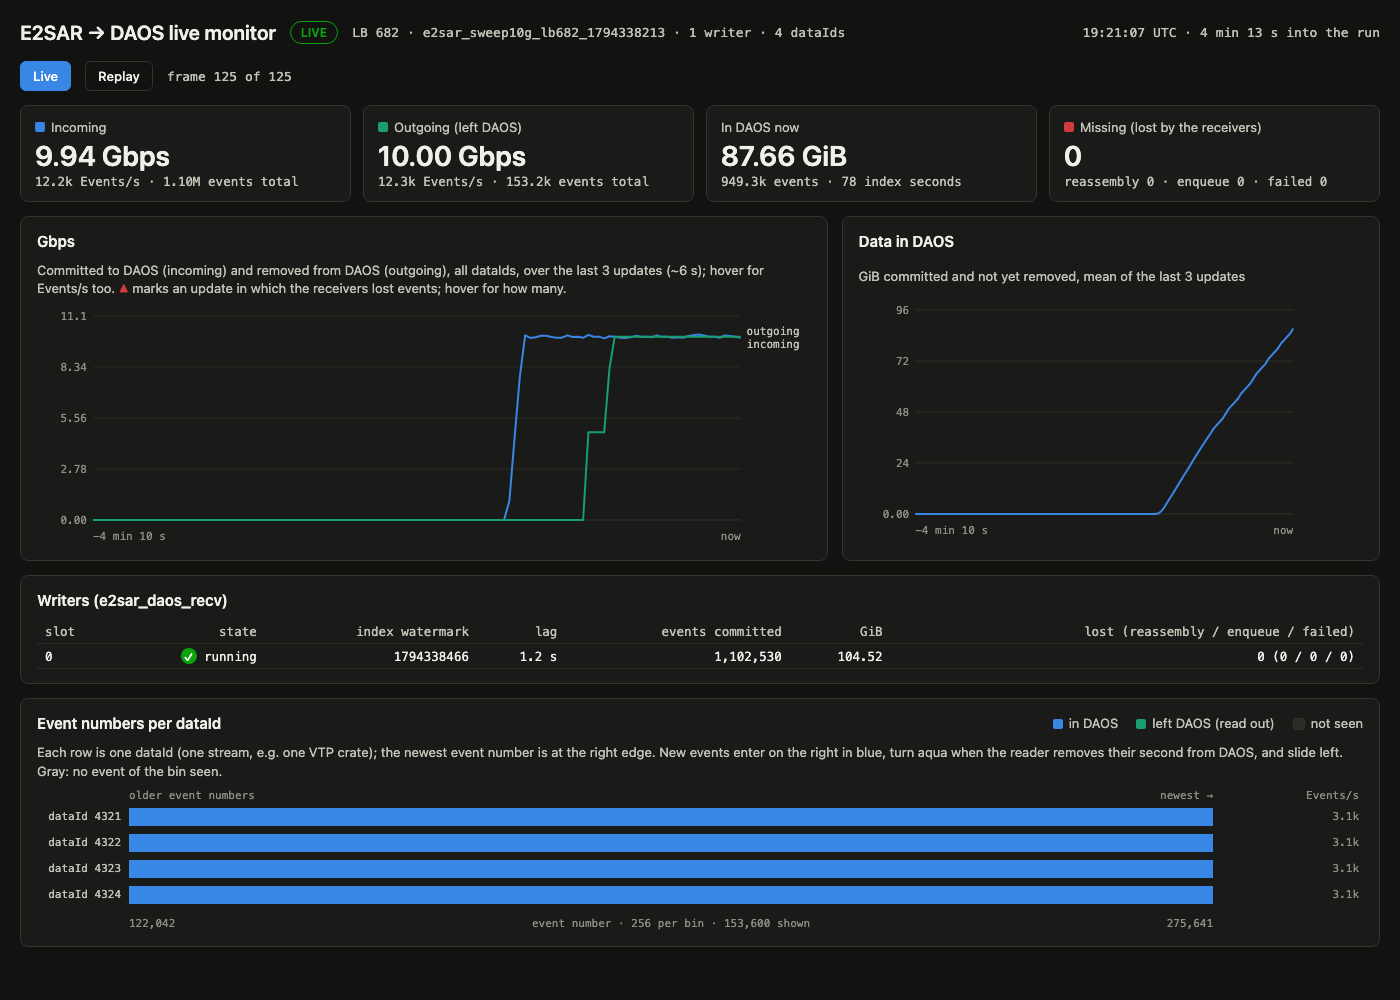
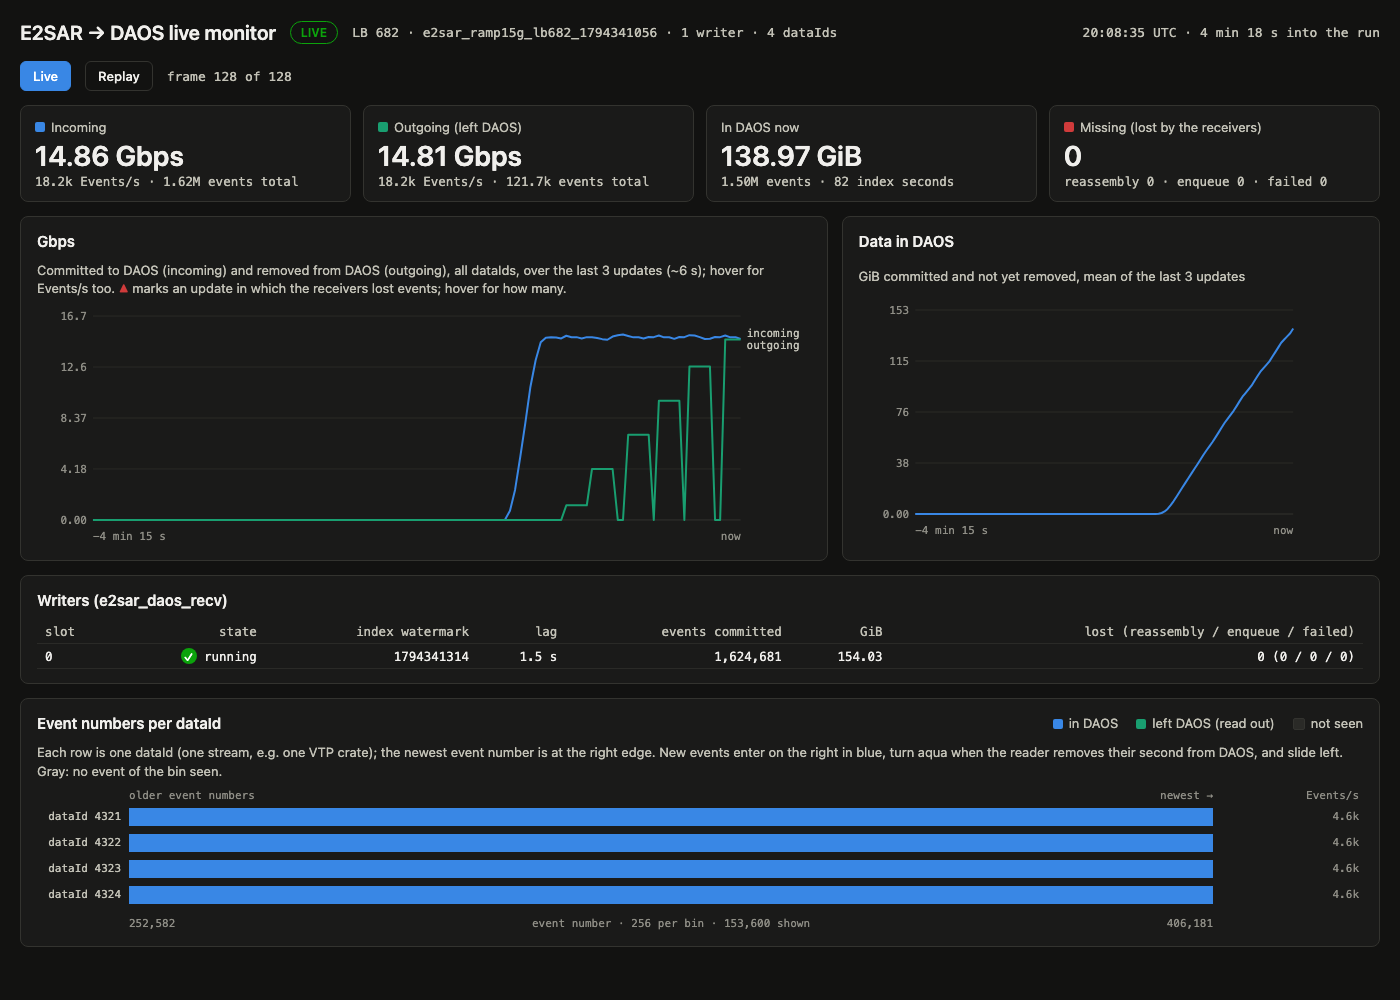
docs: DAOS monitor screenshot from the 15 Gbps ramp run (lossless)

diff --git a/docs/concepts/streaming-workflow.md b/docs/concepts/streaming-workflow.md
@@ -58,7 +58,7 @@ Two independent tools show a run live, each in a web page. Neither writes to DAO
 | Load on the run | One read of each 32-byte index entry, one `seconds` listing per 2 s (estimated, not yet measured on DAOS) | None on DAOS. Reads at most the sample (default 32 MiB) of each bundle from the page cache |
 | Load on the page | ~4 KB per update; the page draws one canvas and three small charts | The browser decodes the sample: ~4,300 frames of 18 crates per 32 MiB, under 1 s |
 
-![The DAOS monitor on 2026-11-10: frames_thread0_file0020.evio sent through LB 682 at 10 Gbps (250 frames, ~100 KB, per event; 4 streams), the fastest lossless rate of a 20/15/10/5 Gbps sweep: 1,105,172 events sent, all stored, 0 missing. Read with e2sar_daos_read --live-rm --interval 2 on the receiver node; the reader writes ~2 Gbps, so data waits in DAOS (In DAOS grows) while Outgoing counts seconds of data removed](../images/sc26_daos_monitor.png)
+![The DAOS monitor on 2026-11-10: frames_thread0_file0020.evio sent through LB 682 at 15 Gbps (250 frames, ~100 KB, per event; 4 streams), ramped up from 1 Gbps over the first 10 s (e2sar_evio_send --ramp 10): 1,657,756 events sent, all stored, 0 missing; without the ramp 15 Gbps lost 21. Read with e2sar_daos_read --live-rm --interval 2 on the receiver node; the reader writes ~2 Gbps, so data waits in DAOS (In DAOS grows) while Outgoing counts seconds of data removed](../images/sc26_daos_monitor.png)
 
 ![EVIO live viewer, Live tab, on 2026-11-10: frames_thread0_file0020.evio sent through LB 682 at 20 Gbps (250 frames, ~100 KB, per event), read with e2sar_daos_read --live-rm --interval 2; 2 crates (ROC 18, 19), 256 channels, hit time in frame per crate](../images/sc26_evio_live_viewer.png)
 

diff --git a/docs/reference/e2sar_daos_monitor.md b/docs/reference/e2sar_daos_monitor.md
@@ -14,7 +14,7 @@ sources:
 
 Status: run against DAOS on the ebpf testbed (2026-10-30, 17.4M events at 61k Events/s, 4 dataIds, `--live-rm`): ~8% of one core, one look every 2.02 s, its incoming count within 0.1% of the receiver's committed count. In a second run it flagged 4,330 frames the sender failed to send, within one update, matching the reader's gap list (then `_missing.txt`, now `_gaps.txt`). These numbers came from the event number gaps, which were called *missing* until 2026-11-09.
 
-![The DAOS monitor on 2026-11-10: frames_thread0_file0020.evio sent through LB 682 at 10 Gbps (250 frames, ~100 KB, per event; 4 streams), the fastest lossless rate of a 20/15/10/5 Gbps sweep: 1,105,172 events sent, all stored, 0 missing. Read with e2sar_daos_read --live-rm --interval 2 on the receiver node; the reader writes ~2 Gbps, so data waits in DAOS (In DAOS grows) while Outgoing counts seconds of data removed](../images/sc26_daos_monitor.png)
+![The DAOS monitor on 2026-11-10: frames_thread0_file0020.evio sent through LB 682 at 15 Gbps (250 frames, ~100 KB, per event; 4 streams), ramped up from 1 Gbps over the first 10 s (e2sar_evio_send --ramp 10): 1,657,756 events sent, all stored, 0 missing; without the ramp 15 Gbps lost 21. Read with e2sar_daos_read --live-rm --interval 2 on the receiver node; the reader writes ~2 Gbps, so data waits in DAOS (In DAOS grows) while Outgoing counts seconds of data removed](../images/sc26_daos_monitor.png)
 
 ## What it counts
 

diff --git a/README.md b/README.md
@@ -21,7 +21,7 @@ A run can be watched live in a browser, for example on a laptop that reaches the
 
 Both only read, so the receivers and the reader run the same with or without them. The steps for the SC26 booth, including a demo mode without DAOS, are in [docs/howto/live-monitoring.md](docs/howto/live-monitoring.md).
 
-![The DAOS monitor on 2026-11-10: frames_thread0_file0020.evio sent through LB 682 at 10 Gbps (250 frames, ~100 KB, per event; 4 streams), the fastest lossless rate of a 20/15/10/5 Gbps sweep: 1,105,172 events sent, all stored, 0 missing. Read with e2sar_daos_read --live-rm --interval 2 on the receiver node; the reader writes ~2 Gbps, so data waits in DAOS (In DAOS grows) while Outgoing counts seconds of data removed](docs/images/sc26_daos_monitor.png)
+![The DAOS monitor on 2026-11-10: frames_thread0_file0020.evio sent through LB 682 at 15 Gbps (250 frames, ~100 KB, per event; 4 streams), ramped up from 1 Gbps over the first 10 s (e2sar_evio_send --ramp 10): 1,657,756 events sent, all stored, 0 missing; without the ramp 15 Gbps lost 21. Read with e2sar_daos_read --live-rm --interval 2 on the receiver node; the reader writes ~2 Gbps, so data waits in DAOS (In DAOS grows) while Outgoing counts seconds of data removed](docs/images/sc26_daos_monitor.png)
 
 ## Build
 
